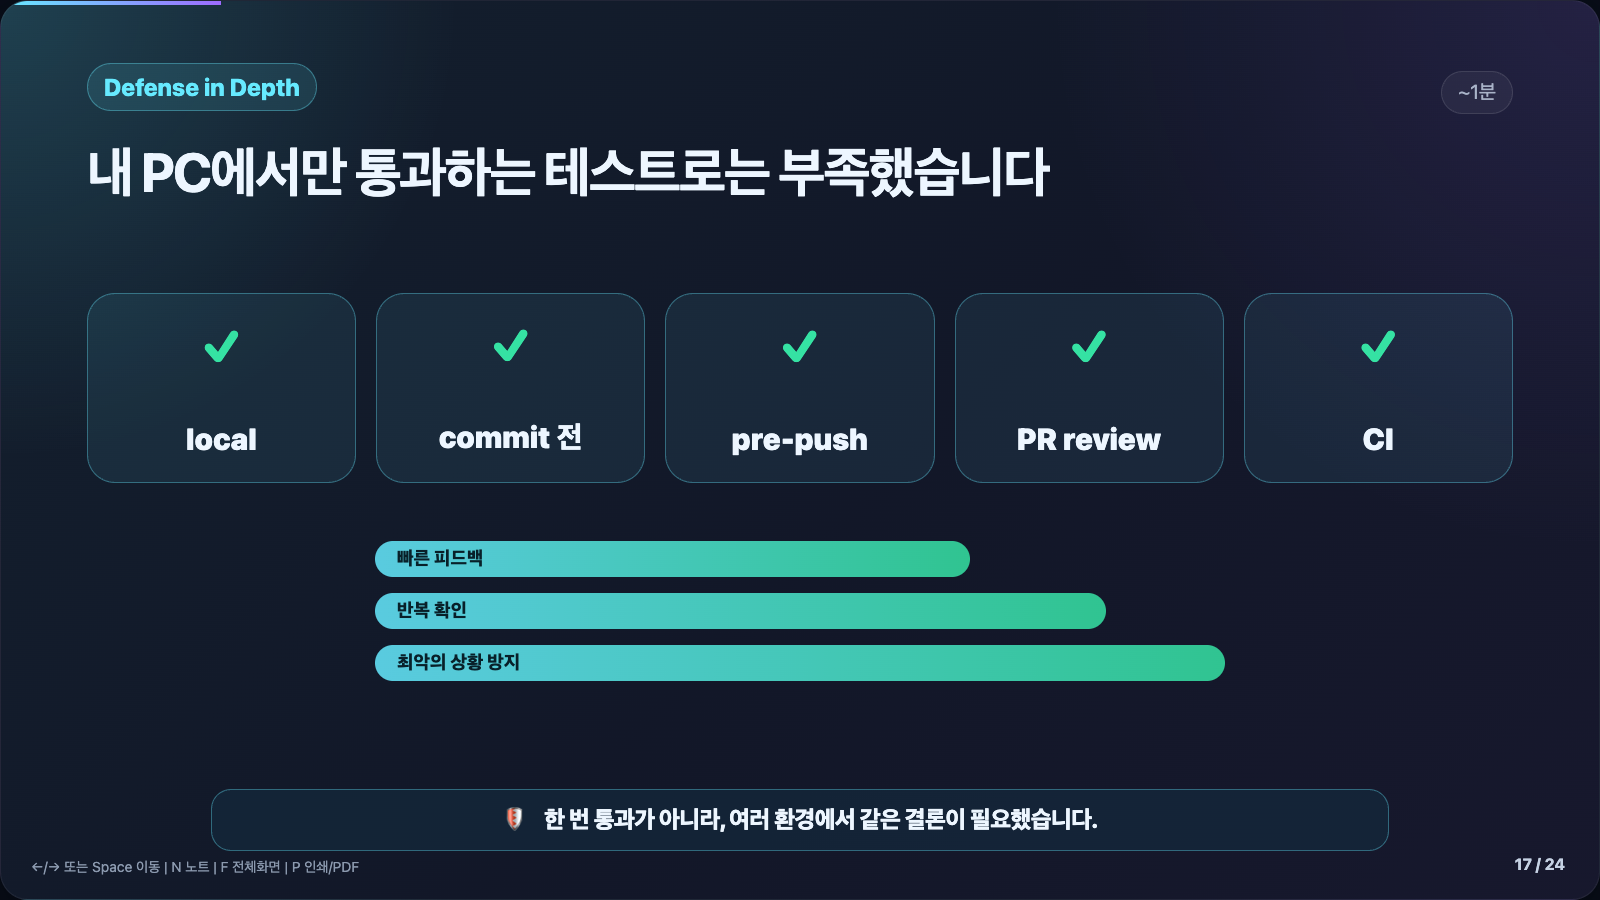
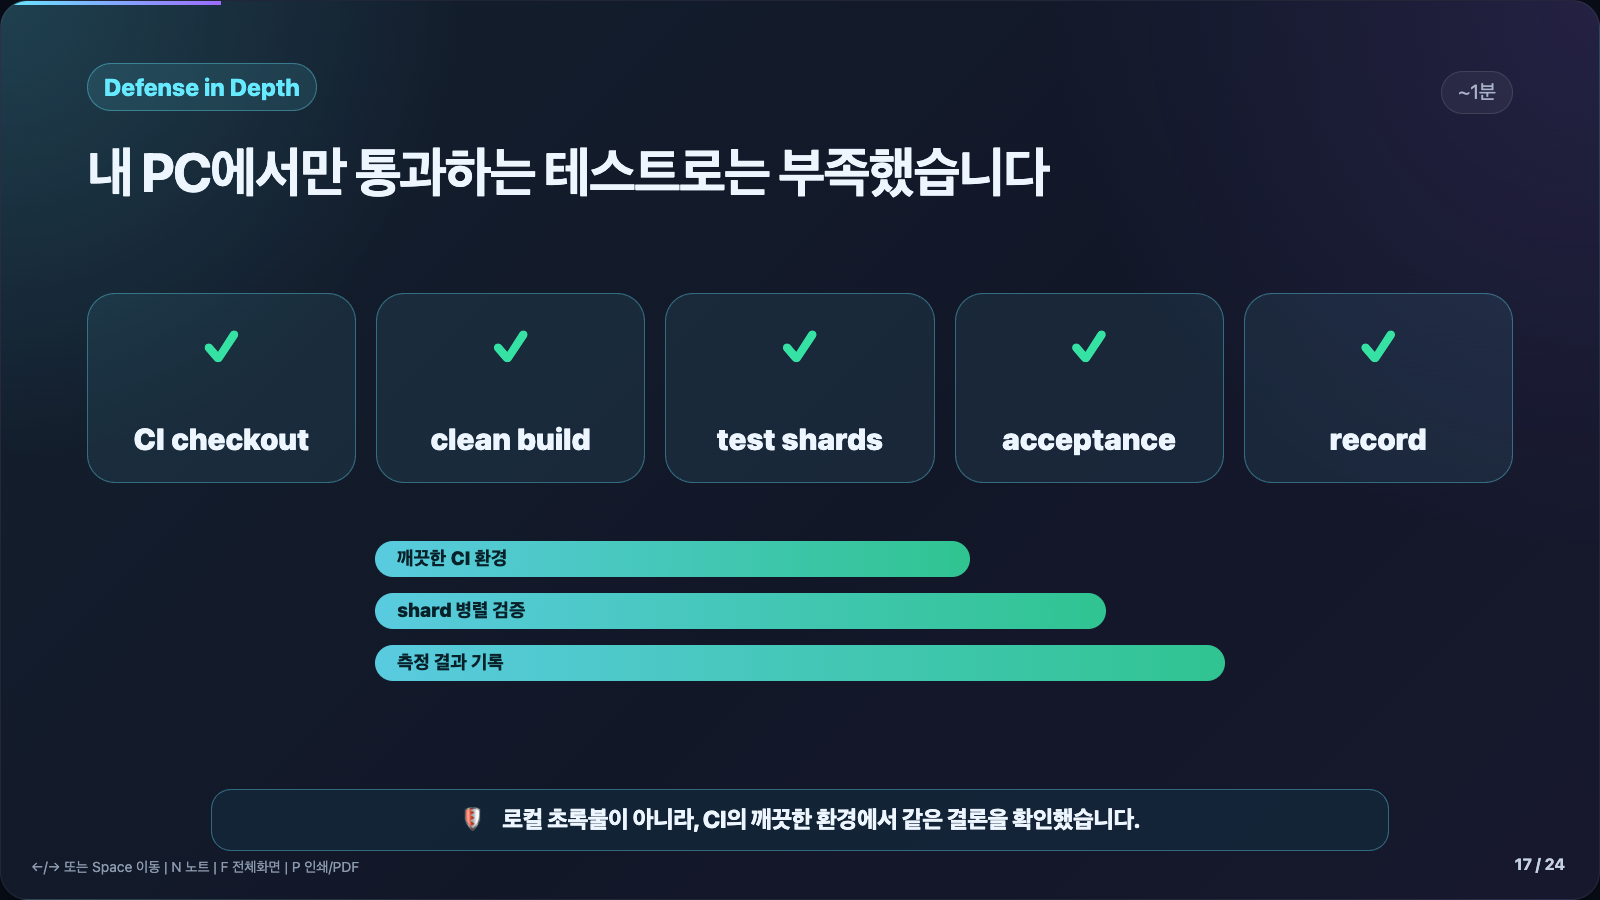
Update slide 17 to emphasize CI validation

diff --git a/index.html b/index.html
@@ -306,11 +306,11 @@
 </div>
 <div class="footer">←/→ 또는 Space 이동 | N 노트 | F 전체화면 | P 인쇄/PDF</div><div class="page">16 / 24</div><aside class="notes">단순히 테스트를 쪼갠 게 아니라 unit, scenario, acceptance 계층이 한쪽 shard에 몰리지 않도록 실행 시간 기준으로 분산했습니다. 전체 테스트 시간이 약 12~14분에서 5~7분으로 줄었고, 중앙값 기준으로 약 54% 단축됐습니다.</aside></div></section><section class="slide" data-slide="17"><div class="slide-inner"><div class="label">Defense in Depth</div><div class="time">~1분</div><h1>내 PC에서만 통과하는 테스트로는 부족했습니다</h1>
 <div class="defense-visual">
-<div class="env-node">local</div><div class="env-node">commit 전</div><div class="env-node">pre-push</div><div class="env-node">PR review</div><div class="env-node">CI</div>
+<div class="env-node">CI checkout</div><div class="env-node">clean build</div><div class="env-node">test shards</div><div class="env-node">acceptance</div><div class="env-node">record</div>
 </div>
-<div class="defense-bars"><div style="width:70%">빠른 피드백</div><div style="width:86%">반복 확인</div><div style="width:100%">최악의 상황 방지</div></div>
-<div class="bottom-callout compact"><span>🛡</span> 한 번 통과가 아니라, 여러 환경에서 같은 결론이 필요했습니다.</div>
-<div class="footer">←/→ 또는 Space 이동 | N 노트 | F 전체화면 | P 인쇄/PDF</div><div class="page">17 / 24</div><aside class="notes">로컬에서만 통과하는 테스트로는 부족했습니다. 커밋 전, pre-push, PR review, CI 등 여러 시점에서 같은 결론이 나오는지를 봤습니다.</aside></div></section><section class="slide" data-slide="18"><div class="slide-inner"><div class="label">Failure Header</div><div class="time">~1.5분</div><h1>운영 응답은 그대로 두고, 검증 환경에서는 실패가 보이게 했습니다</h1>
+<div class="defense-bars"><div style="width:70%">깨끗한 CI 환경</div><div style="width:86%">shard 병렬 검증</div><div style="width:100%">측정 결과 기록</div></div>
+<div class="bottom-callout compact"><span>🛡</span> 로컬 초록불이 아니라, CI의 깨끗한 환경에서 같은 결론을 확인했습니다.</div>
+<div class="footer">←/→ 또는 Space 이동 | N 노트 | F 전체화면 | P 인쇄/PDF</div><div class="page">17 / 24</div><aside class="notes">로컬에서만 통과하는 테스트로는 부족했습니다. 그래서 CI의 깨끗한 checkout 환경에서 clean build, test shard, acceptance를 다시 돌리고, 그 결과를 기록했습니다.</aside></div></section><section class="slide" data-slide="18"><div class="slide-inner"><div class="label">Failure Header</div><div class="time">~1.5분</div><h1>운영 응답은 그대로 두고, 검증 환경에서는 실패가 보이게 했습니다</h1>
 <div class="header-visual">
 <div class="prod-side"><b>Production</b><span>status/body 유지</span><div class="response-card">200 OK<br/>{ body: legacy }</div></div>
 <div class="header-arrow">mismatch<br/>→</div>